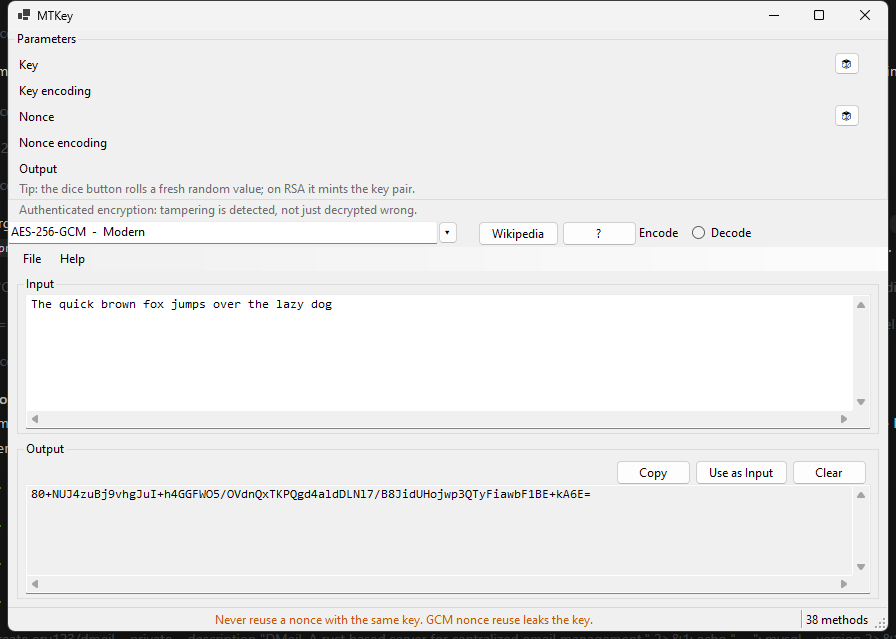
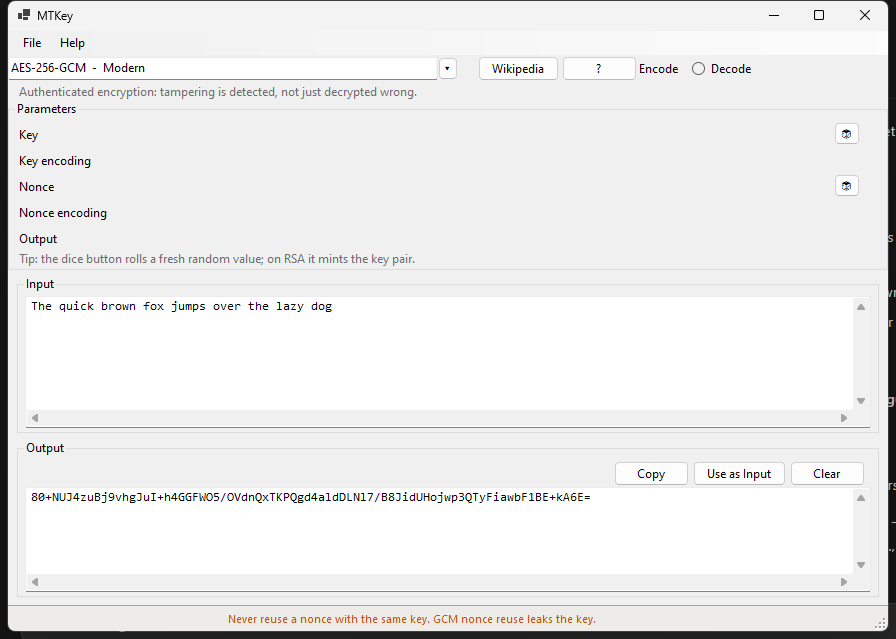
fix(ui): menu first, centered toolbar, separated status bar
Dock layout walks children from the end of the collection inward, which
had quietly stacked the parameters above the blurb, toolbar and menu.
Child indexes are now pinned explicitly so the order reads menu,
toolbar, hint, parameters, text areas, status bar, and the layout guard
asserts that order for every method.

Toolbar controls center vertically; the output action buttons get
breathing room from the group border; text areas stay single-frame
white; the status bar gains a crisp top rule, a lighter tone and a
smaller font. Decoding binary data now explains itself instead of
surfaces as 'Unexpected: Unable to translate bytes'.

diff --git a/src/Mtkey/MainForm.cs b/src/Mtkey/MainForm.cs
@@ -44,6 +44,11 @@ internal sealed class MainForm : Form
     private readonly Button _useButton = NewButton("Use as Input");
     private readonly Button _clearButton = NewButton("Clear");
 
+    private MenuStrip _menu = null!;
+    private Panel _toolBar = null!;
+    private Panel _blurbBar = null!;
+    private TableLayoutPanel _ioGrid = null!;
+
     private readonly StatusStrip _statusStrip = new();
     private readonly ToolStripStatusLabel _statusLabel = new() { Spring = true };
     private readonly ToolStripStatusLabel _countLabel = new();
@@ -74,6 +79,17 @@ internal sealed class MainForm : Form
         BuildParamsGroup();
         BuildIoArea();
         BuildStatusBar();
+
+        // WinForms dock layout walks the children from the END of the
+        // collection inward: the highest index docks first. The visual order
+        // top to bottom is therefore the reverse of the index order, so pin
+        // it explicitly: menu, toolbar, blurb, parameters, io, status bar.
+        Controls.SetChildIndex(_ioGrid, 0);
+        Controls.SetChildIndex(_statusStrip, 1);
+        Controls.SetChildIndex(_paramsGroup, 2);
+        Controls.SetChildIndex(_blurbBar, 3);
+        Controls.SetChildIndex(_toolBar, 4);
+        Controls.SetChildIndex(_menu, 5);
 
         _selector.MethodPicked += m => SwitchMethod(m);
         _wikiButton.Click += (_, _) => OpenWiki();
@@ -114,12 +130,13 @@ internal sealed class MainForm : Form
         help.DropDownItems.Add(new ToolStripSeparator());
         help.DropDownItems.Add(new ToolStripMenuItem("&About MTKey...", null,
             (_, _) => MessageBox.Show(this,
-                "MTKey 1.0.2\nA cipher workbench: encode, decode, hash, sign, and learn.\n" +
+                "MTKey 1.0.3\nA cipher workbench: encode, decode, hash, sign, and learn.\n" +
                 $"{Registry.All.Count} methods. MIT licensed.\nhttps://github.com/eru123/mtkey",
                 "About MTKey", MessageBoxButtons.OK, MessageBoxIcon.Information)));
         menu.Items.Add(file);
         menu.Items.Add(help);
         MainMenuStrip = menu;
+        _menu = menu;
         Controls.Add(menu);
     }
 
@@ -133,18 +150,21 @@ internal sealed class MainForm : Form
         bar.Controls.Add(_decodeRadio);
         bar.Controls.Add(_oneWayLabel);
 
-        // absolute placement on every resize; no anchors fighting manual math
+        // absolute placement on every resize; no anchors fighting manual math.
+        // Every control is centered vertically in the row.
         void Place()
         {
             var w = bar.ClientSize.Width;
-            _selector.Bounds = new Rectangle(0, 2, Math.Max(120, w - 430), 23);
-            _wikiButton.Location = new Point(w - 410, 2);
-            _helpButton.Location = new Point(w - 326, 2);
-            _encodeRadio.Location = new Point(w - 268, 4);
-            _decodeRadio.Location = new Point(w - 196, 4);
-            _oneWayLabel.Location = new Point(w - 292, 7);
+            void Put(Control c, int x) => c.Location = new Point(x, Math.Max(0, (bar.ClientSize.Height - c.Height) / 2));
+            _selector.Bounds = new Rectangle(0, Math.Max(0, (bar.ClientSize.Height - 23) / 2), Math.Max(120, w - 430), 23);
+            Put(_wikiButton, w - 410);
+            Put(_helpButton, w - 326);
+            Put(_encodeRadio, w - 268);
+            Put(_decodeRadio, w - 196);
+            Put(_oneWayLabel, w - 292);
         }
         bar.Resize += (_, _) => Place();
+        _toolBar = bar;
         Controls.Add(bar);
     }
 
@@ -153,6 +173,7 @@ internal sealed class MainForm : Form
         var bar = new Panel { Dock = DockStyle.Top, Height = 18, Padding = new Padding(8, 1, 8, 1) };
         bar.Controls.Add(_blurb);
         _tips.SetToolTip(_blurb, "Click for the full explanation");
+        _blurbBar = bar;
         Controls.Add(bar);
     }
 
@@ -179,7 +200,7 @@ internal sealed class MainForm : Form
         grid.RowStyles.Add(new RowStyle(SizeType.Percent, 50));
 
         _inputGroup.Dock = DockStyle.Fill;
-        _inputGroup.Padding = new Padding(8, 2, 8, 6);
+        _inputGroup.Padding = new Padding(8, 4, 8, 6);
         _input.Dock = DockStyle.Fill;
         _input.Multiline = true;
         _input.ScrollBars = ScrollBars.Both;
@@ -187,21 +208,23 @@ internal sealed class MainForm : Form
         _input.AcceptsTab = true;
         _inputGroup.Controls.Add(_input);
 
+        // the action buttons live on their own line under the group caption,
+        // right aligned with a small inset so nothing touches the border
         _outputGroup.Dock = DockStyle.Fill;
-        _outputGroup.Padding = new Padding(8, 2, 8, 6);
-        var actions = new Panel { Dock = DockStyle.Top, Height = 25, Margin = new Padding(0, 0, 0, 2) };
+        _outputGroup.Padding = new Padding(8, 4, 8, 6);
+        var actions = new Panel { Dock = DockStyle.Top, Height = 27, Margin = new Padding(0, 0, 0, 3) };
         var buttons = new[] { _clearButton, _useButton, _copyButton };
         actions.Controls.AddRange(buttons);
-        void Place()
+        void PlaceActions()
         {
-            var x = actions.ClientSize.Width;
+            var x = actions.ClientSize.Width - 2;
             foreach (var b in buttons)
             {
                 x -= b.Width + 4;
-                b.Location = new Point(x, 1);
+                b.Location = new Point(x, (actions.ClientSize.Height - b.Height) / 2);
             }
         }
-        actions.Resize += (_, _) => Place();
+        actions.Resize += (_, _) => PlaceActions();
         _outputGroup.Controls.Add(actions);
         _output.Dock = DockStyle.Fill;
         _output.Multiline = true;
@@ -213,11 +236,8 @@ internal sealed class MainForm : Form
 
         grid.Controls.Add(_inputGroup, 0, 0);
         grid.Controls.Add(_outputGroup, 0, 1);
+        _ioGrid = grid;
         Controls.Add(grid);
-        // dock layout walks children from the end of the collection inward,
-        // so the fill area must sit at index 0 to claim only the leftover
-        // space below every top-docked row
-        Controls.SetChildIndex(grid, 0);
     }
 
     private void BuildStatusBar()
@@ -228,6 +248,16 @@ internal sealed class MainForm : Form
         _countLabel.BorderSides = ToolStripStatusLabelBorderSides.Left;
         _countLabel.BorderStyle = Border3DStyle.Etched;
         _statusStrip.SizingGrip = true;
+        _statusStrip.Font = new Font(SystemFonts.MessageBoxFont.FontFamily, 8.25f);
+        _statusStrip.BackColor = Color.FromArgb(237, 236, 232);
+        _statusStrip.Padding = new Padding(8, 2, 8, 2);
+        // a crisp rule above the bar, the way classic status panels are cut
+        // off from the content area
+        _statusStrip.Paint += (s, e) =>
+        {
+            using var pen = new Pen(SystemColors.ControlDark);
+            e.Graphics.DrawLine(pen, 0, 0, _statusStrip.Width, 0);
+        };
         Controls.Add(_statusStrip);
         _statusLabel.Text = "Ready.";
     }
@@ -529,6 +559,11 @@ internal sealed class MainForm : Form
         {
             ShowStatus(ex.Message, ErrorRed);
         }
+        catch (System.Text.DecoderFallbackException)
+        {
+            ShowStatus("The result is binary bytes, not valid text, so it cannot be shown as characters. " +
+                       "The hex methods will show you every byte instead.", ErrorRed);
+        }
         catch (Exception ex)
         {
             ShowStatus($"Unexpected: {ex.Message}", ErrorRed);
@@ -582,6 +617,7 @@ internal sealed class MainForm : Form
     internal List<string> LayoutDefects()
     {
         var defects = new List<string>();
+        int previousRectangleBottom = 0;
 
         foreach (Control row in _paramsGroup.Controls)
         {
@@ -616,6 +652,23 @@ internal sealed class MainForm : Form
                     ScreenBounds(groups[i]).IntersectsWith(Rectangle.Inflate(ScreenBounds(groups[j]), -2, -2)))
                     defects.Add($"{_method.Id}: {groups[i].Text} and {groups[j].Text} group boxes intersect " +
                                 $"[{ScreenBounds(groups[i])}] vs [{ScreenBounds(groups[j])}]");
+
+        // stacking order: menu, toolbar, blurb, parameters, io, status bar
+        var order = new (Control c, string Name)[]
+        {
+            (_menu, "menu"), (_toolBar, "toolbar"), (_blurbBar, "blurb"),
+            (_paramsGroup, "parameters"), (_ioGrid, "io"), (_statusStrip, "status"),
+        };
+        Control? previous = null;
+        foreach (var (control, name) in order)
+        {
+            if (!control.Visible) continue;
+            var top = control.Parent!.RectangleToScreen(control.Bounds).Top;
+            if (previous != null && top < previousRectangleBottom - 1)
+                defects.Add($"{_method.Id}: {name} row starts at y={top}, above the previous block (bottom {previousRectangleBottom})");
+            previous = control;
+            previousRectangleBottom = control.Parent!.RectangleToScreen(control.Bounds).Bottom;
+        }
 
         foreach (var control in new Control[] { _selector, _input, _output, _statusStrip })
         {
@@ -654,5 +707,6 @@ internal sealed class MainForm : Form
     {
         Font = new Font("Consolas", 9f),
         ReadOnly = readOnly,
+        BackColor = Color.White,   // read-only boxes stay white, single native frame
     };
 }
